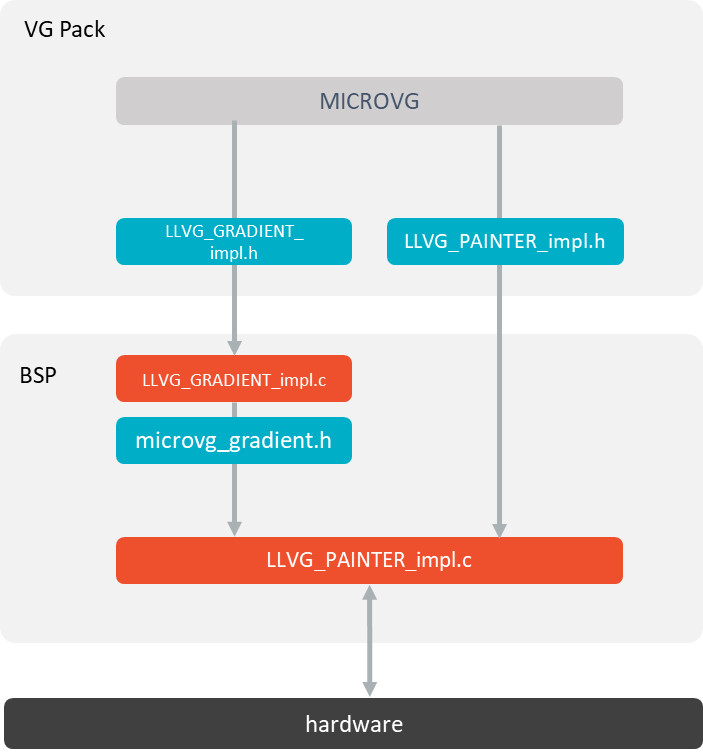
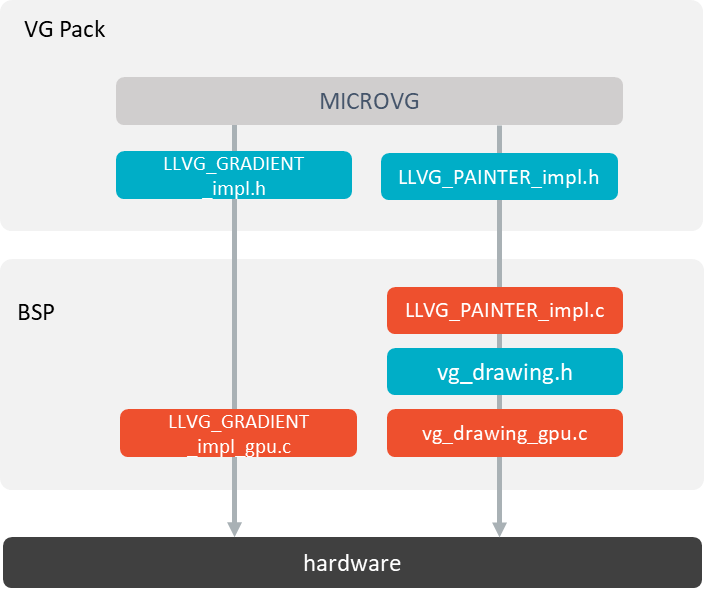
fix llapi vg gradient

diff --git a/VEEPortingGuide/vgGradient.rst b/VEEPortingGuide/vgGradient.rst
@@ -45,9 +45,11 @@ There are two separate Abstraction Layer API header files (see :ref:`LLVG-GRADIE
 
    Gradient Abstraction Layer API
 
-* MicroVG library calls the BSP functions through the header files ``LLVG_PAINTER_impl.h`` and ``LLVG_GRADIENT_impl.h``.
-* The :ref:`C module MicroVG <section_vg_c_module_microvg>` provides an implementation of ``LLVG_PAINTER_impl.c`` that synchronizes the drawing with the MicroUI Graphics Engine and redirects the drawing itself to a third-party drawer.
-* A C module dedicated to a GPU provides an implementation of ``LLVG_PAINTER_impl.h`` and ``LLVG_GRADIENT_impl.h``: it encodes the gradient and implements the drawings over the GPU library.
+
+* MicroVG library calls the BSP functions through the header files ``LLVG_GRADIENT_impl.h`` and ``LLVG_PAINTER_impl.h``.
+*  The :ref:`C module MicroVG <section_vg_c_module_microvg>` provides an implementation of ``LLVG_PAINTER_impl.c`` that synchronizes the drawing with the MicroUI Graphics Engine and redirects the drawing itself to a third-party drawer through ``vg_drawing.h``..
+* A C module dedicated to a GPU provides an implementation of this drawer (``vg_drawing_gpu.c``) that implements the drawings over the GPU library.
+* This dedicated GPU C module provides an implementation of ``LLVG_GRADIENT_impl.h`` (``LLVG_GRADIENT_impl_gpu.c``) that encodes the gradient.
 * These files are automatically copied in the BSP project when fetching the C modules during the VEE Port build.
 
 .. _VectorGraphicsPainter: https://repository.microej.com/javadoc/microej_5.x/apis/ej/microvg/VectorGraphicsPainter.html
